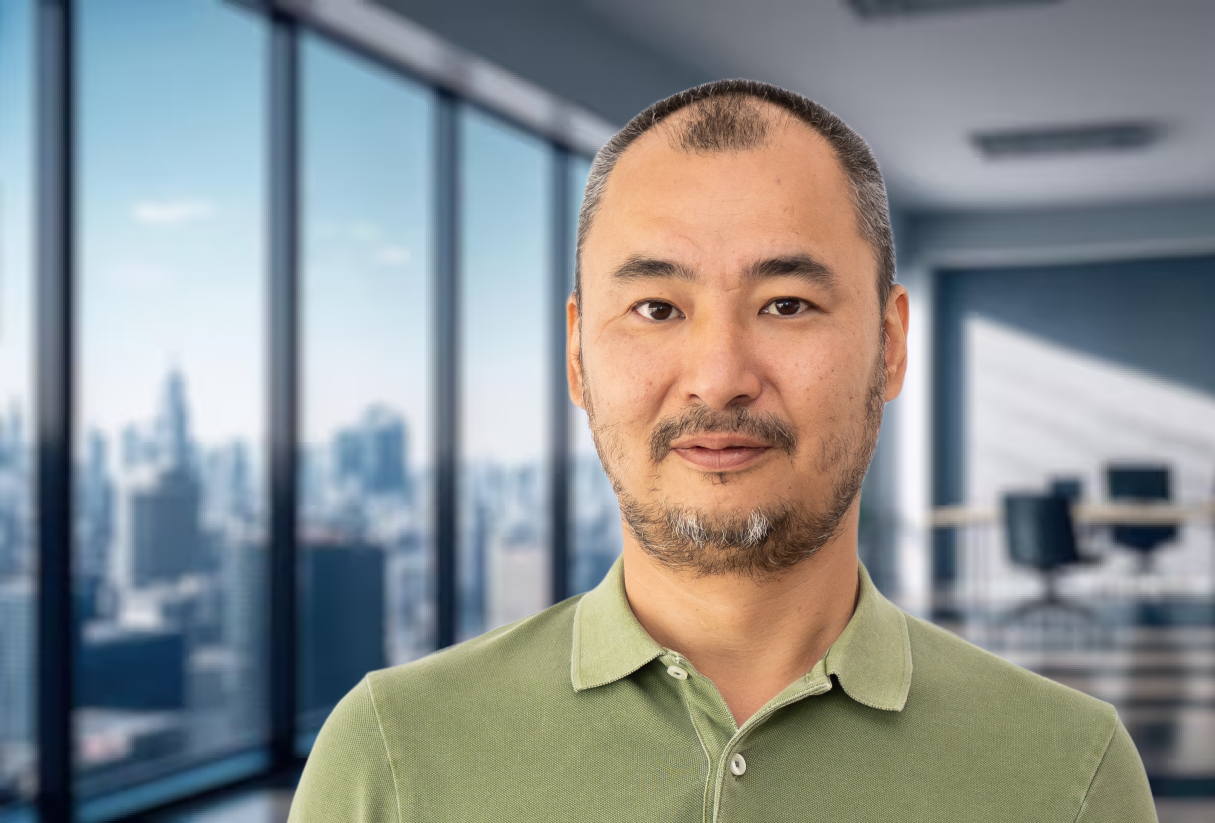
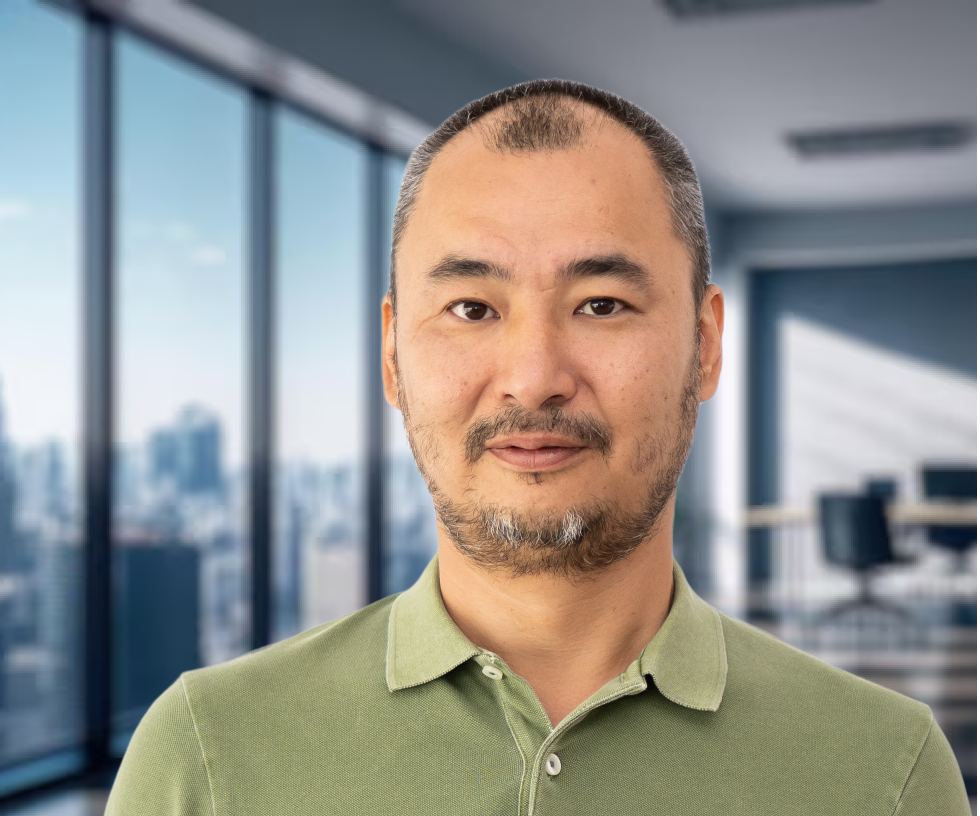
added about us

diff --git a/src/app/[locale]/about/page.tsx b/src/app/[locale]/about/page.tsx
@@ -98,7 +98,7 @@ export default async function About({
               alt={'about'}
               className="filter brightness-50 object-contain"
             />
-            <span className="w-3/4 absolute lg:bottom-20 bottom-5 left-3 font-gilroy xl:text-4xl lg:text-3xl md:text-2xl sm:text-xl text-lg">
+            <span className="w-3/4 tracking-widest absolute lg:bottom-20 bottom-5 left-3 font-gilroy xl:text-4xl lg:text-3xl md:text-2xl sm:text-xl text-lg">
               люди - наша главная ценность и источник силы холдинга.
             </span>
           </div>
@@ -106,7 +106,7 @@ export default async function About({
         <div className="sm:px-5 px-2 sm:mb-10 mb-5">
           <div className="flex flex-col sm:w-3/4 w-full">
             <span className="text-xl">Наши ценности</span>
-            <span className="text-xs">
+            <span className="text-xs tracking-widest">
               Наши ценности и принципы тесно соприкасаются с целями ООН в
               области устойчивого развития
             </span>
@@ -134,9 +134,9 @@ export default async function About({
 
         <div className="sm:px-5 px-2 sm:mb-10 mb-5">
           <div className="grid gap-3 grid-cols-2 md:grid-cols-4">
-            <div className="col-span-2 md:col-span-2 flex flex-col gap-y-3">
-              <span className="text-white text-2xl">Наша команда</span>
-              <span className="text-primary-gold text-xl">
+            <div className="col-span-2 md:col-span-2 flex justify-center flex-col gap-y-3">
+              <span className="text-white text-4xl">Наша команда</span>
+              <span className="text-primary-gold text-4xl tracking-widest">
                 Команда, в которой каждый вносит свой вклад, способна перемещать
                 горы
               </span>

diff --git a/src/app/[locale]/_components/PersonalCard.tsx b/src/app/[locale]/_components/PersonalCard.tsx
@@ -11,7 +11,7 @@ export default function PersonalCard({ src, name, position }: Props) {
       <Image
         src={src}
         alt={name}
-        className="md:w-[420px] md:h-[500px] w-[155px] h-[192px] object-cover object-center rounded-xl scale-100"
+        className="md:w-[420px] md:h-[500px] w-[155px] h-[192px] object-cover object-center rounded-xl"
       />
       <span className="text-primary-gold">{name}</span>
       <span className="opacity-70">{position}</span>

diff --git a/src/app/[locale]/page.tsx b/src/app/[locale]/page.tsx
@@ -4,7 +4,6 @@ import { StaticImageData } from 'next/image'
 import { Locale } from '@/i18n-config'
 import { getDictionary } from '@/get-dictionary'
 import { Divider } from '@nextui-org/divider'
-import Image from 'next/image'
 
 import news1 from '@/../public/news1.jpg'
 import homeImg from '@/../public/home-page.jpg'
